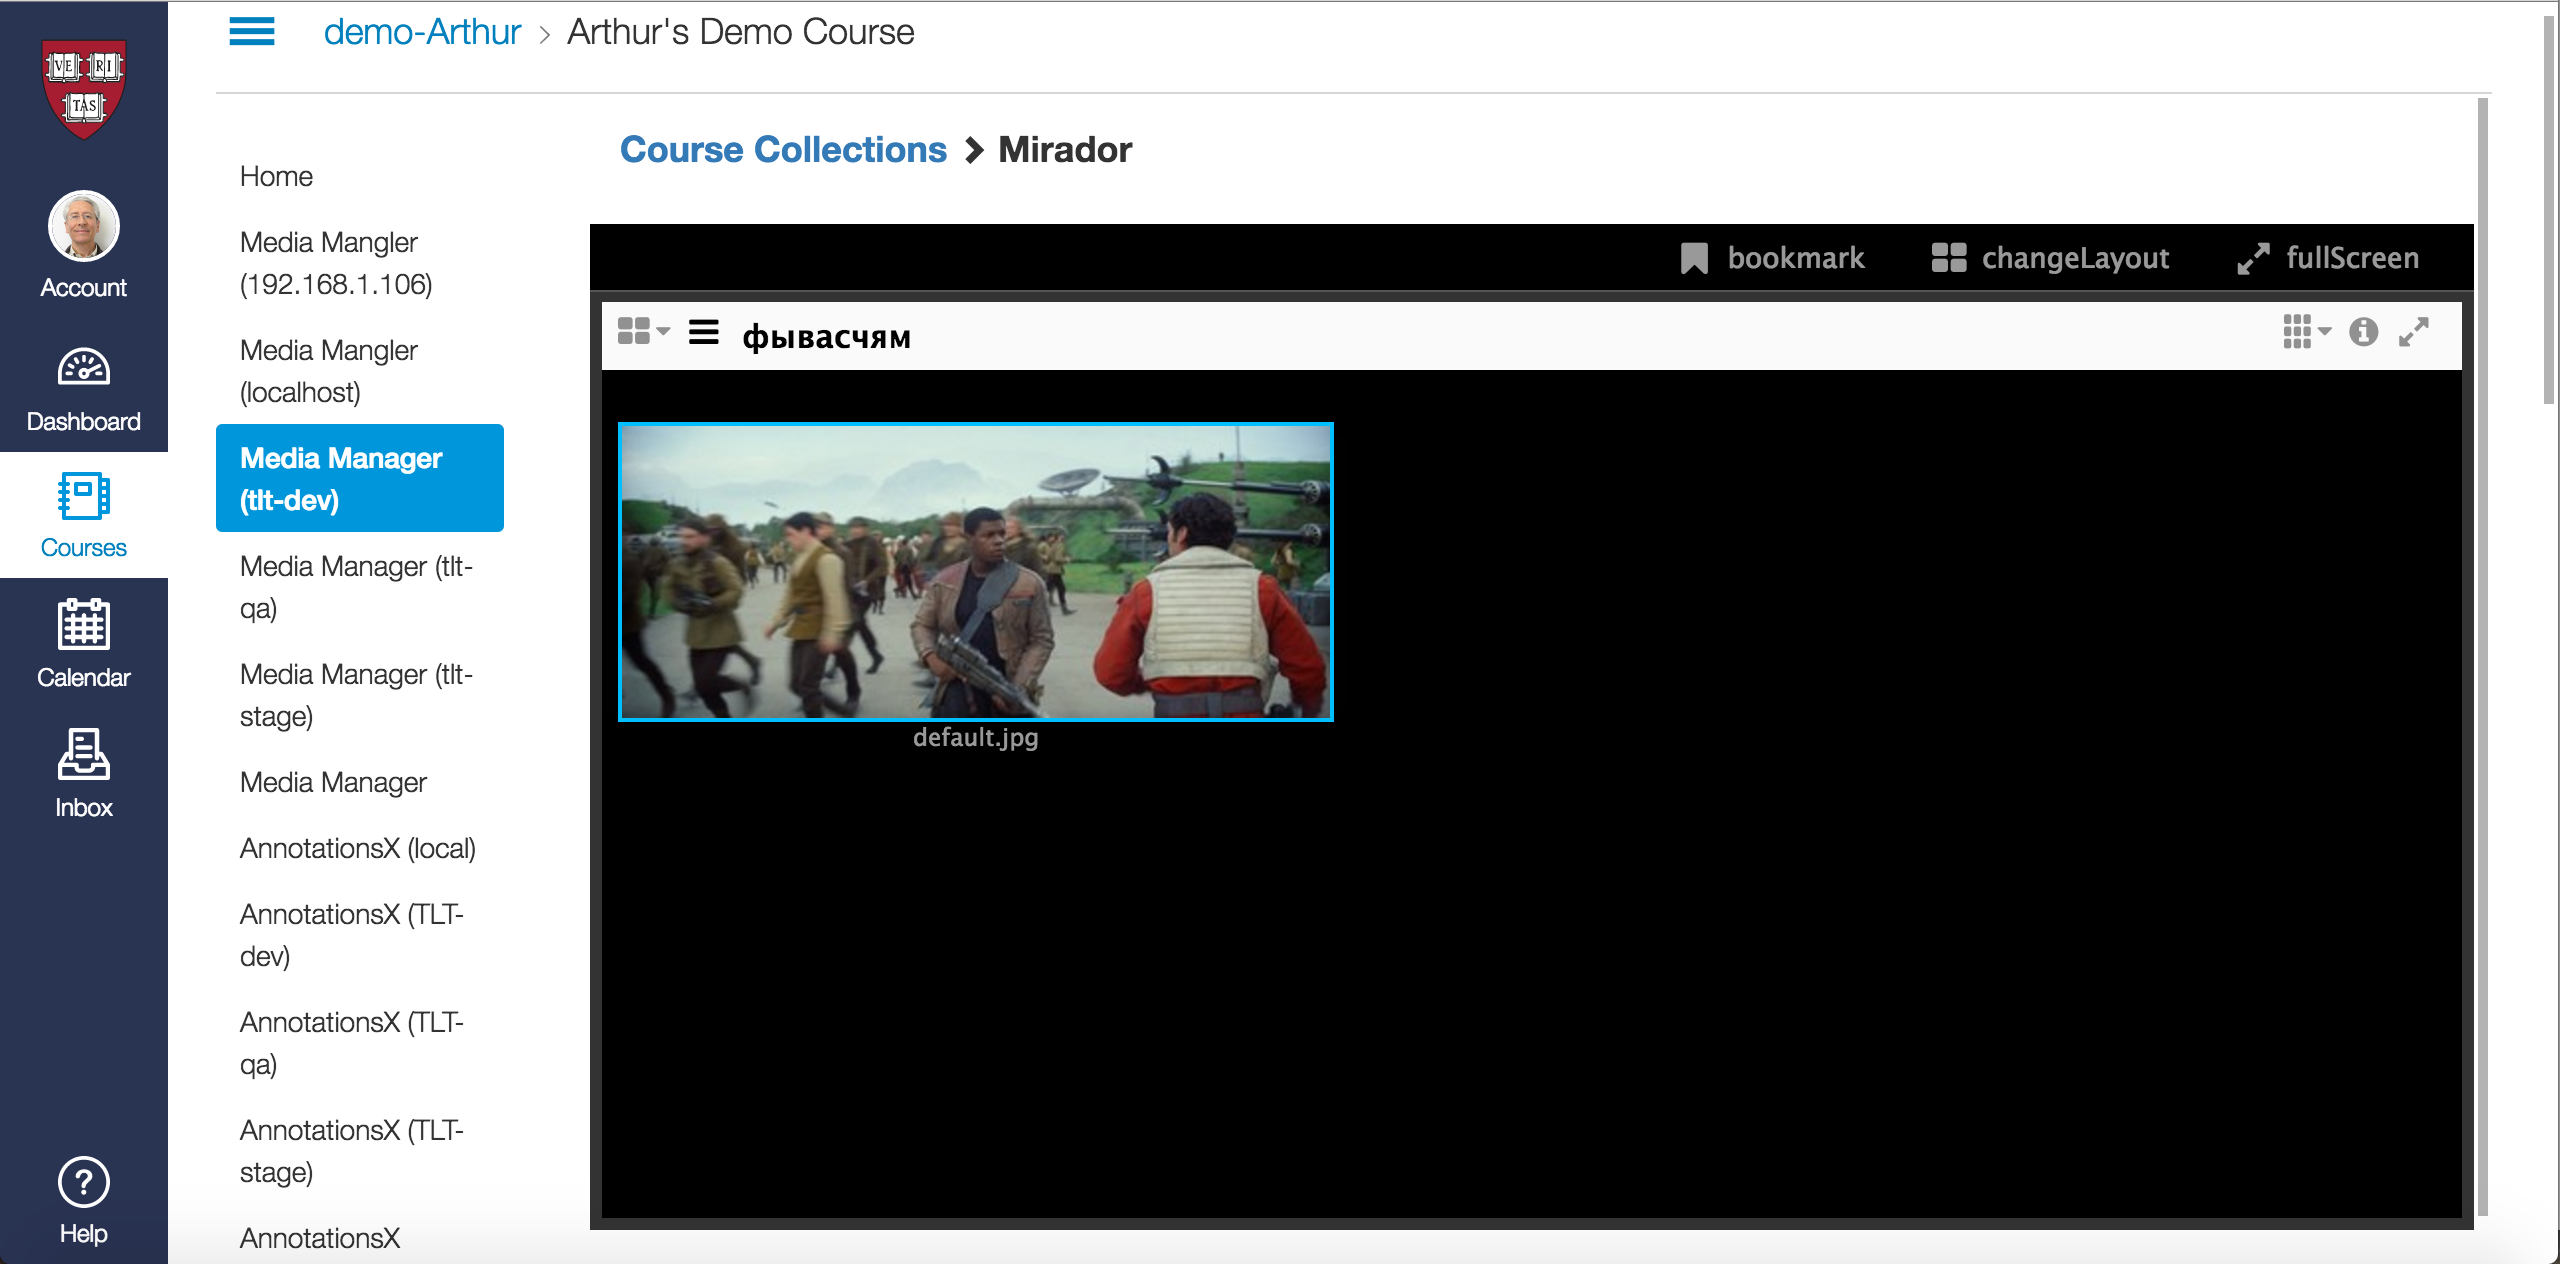
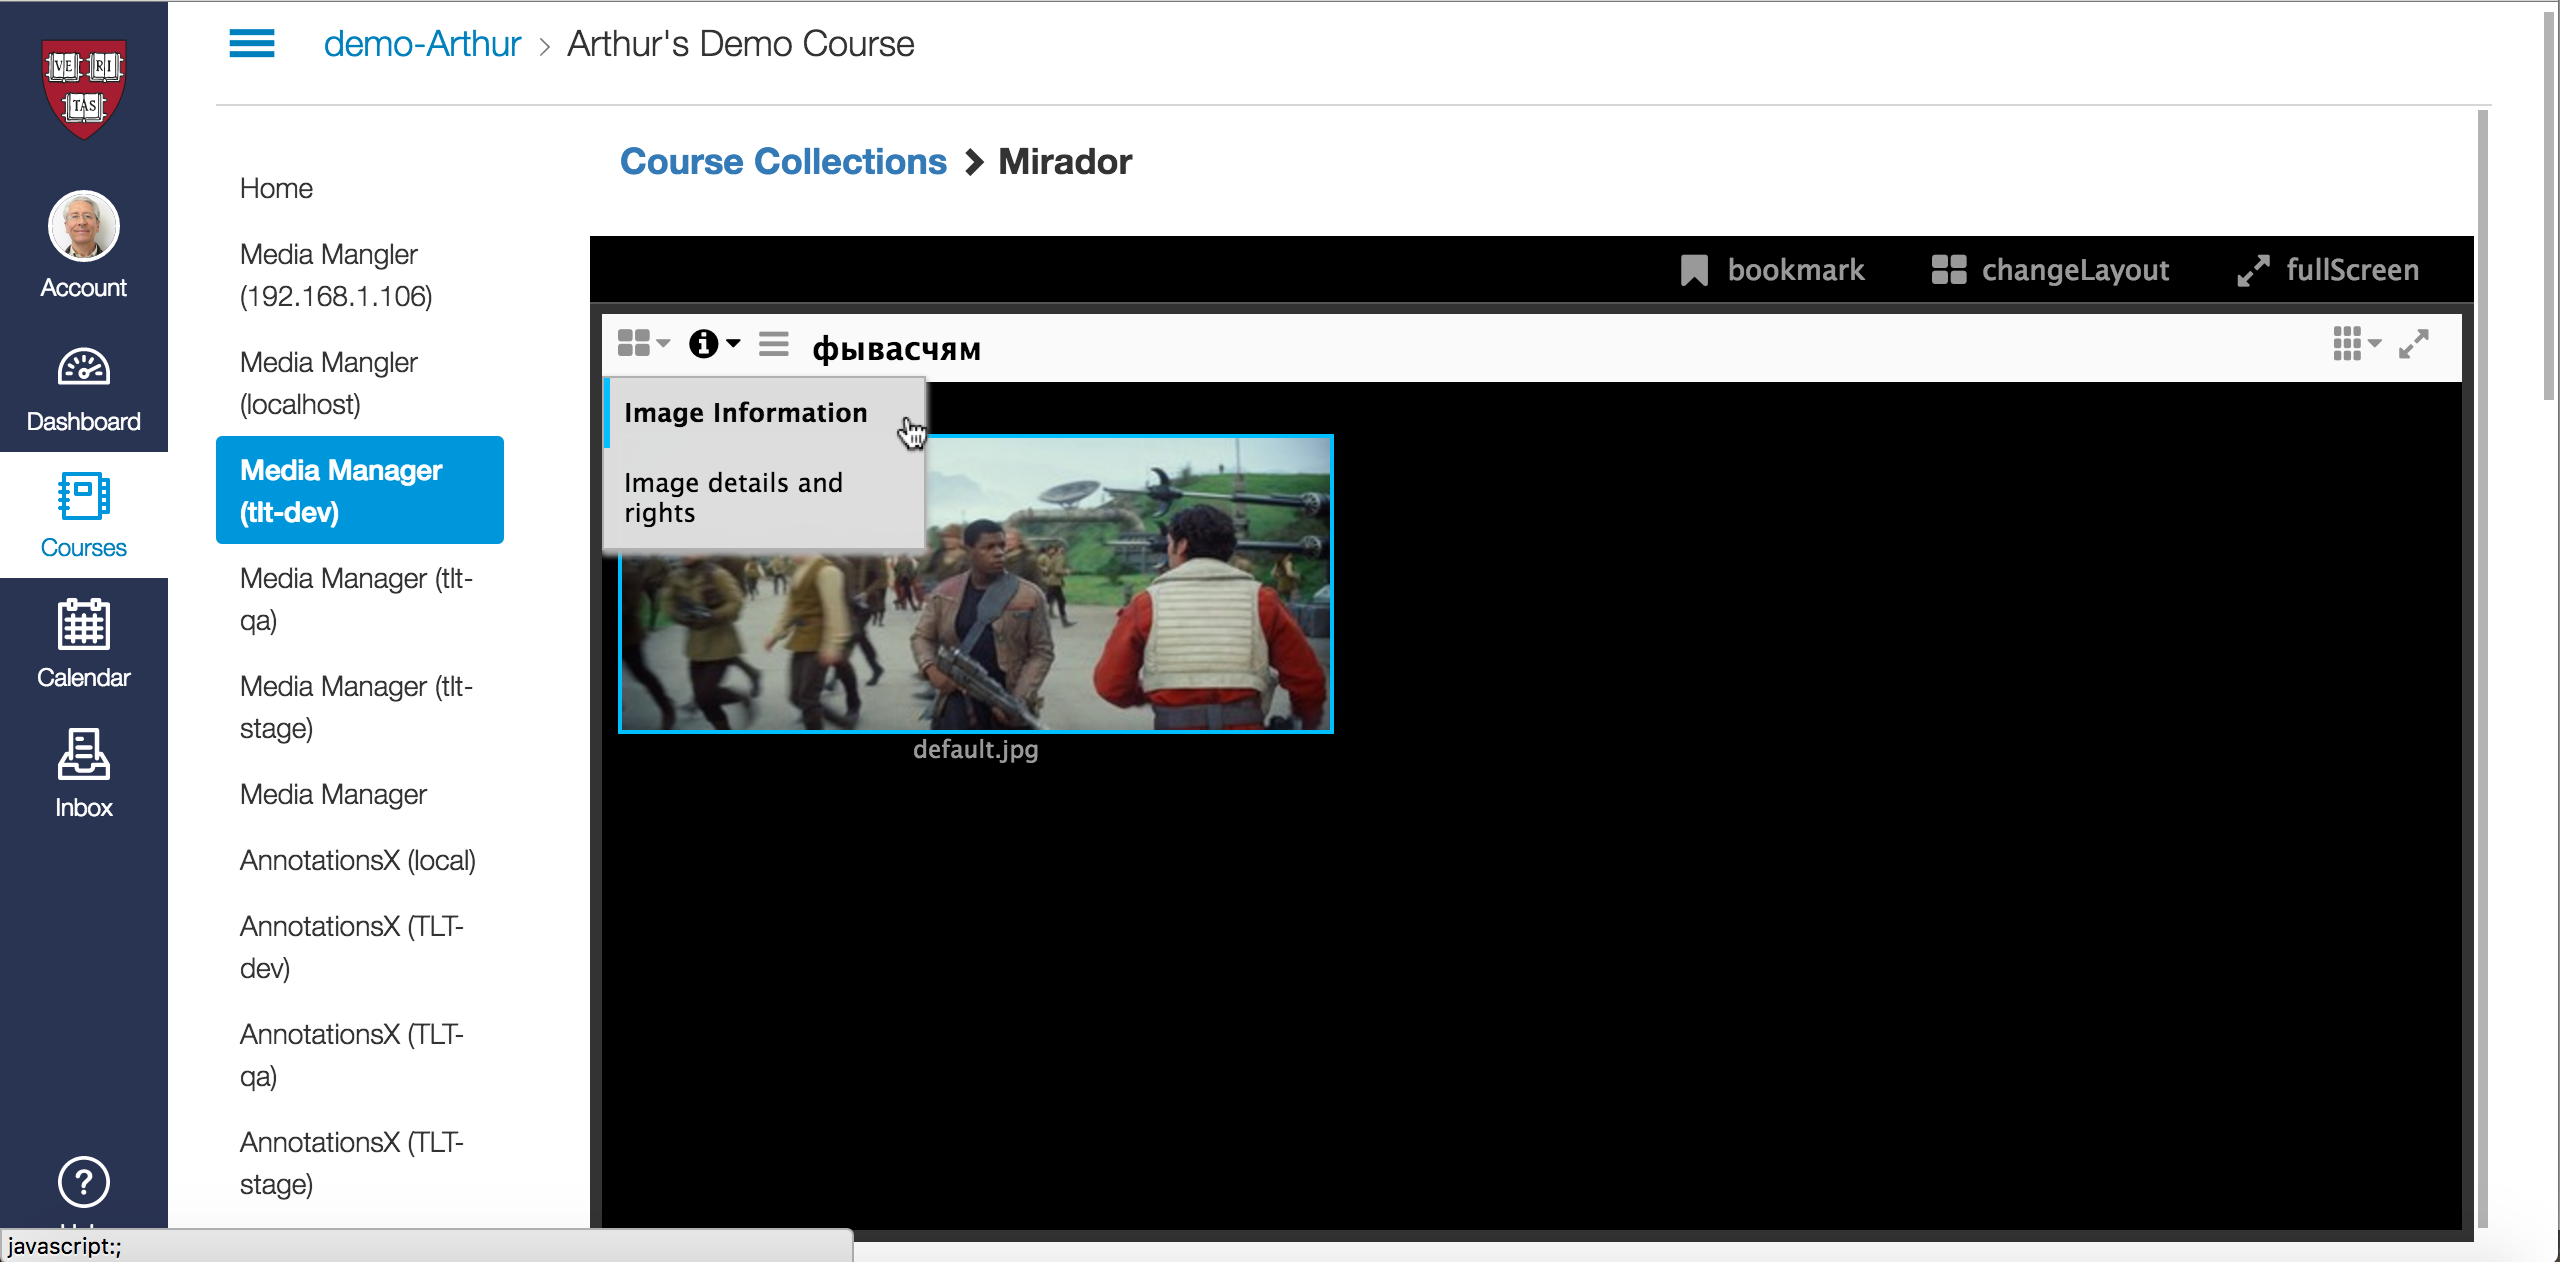
Mirador_Upper_Nav, proposed screen and UI code

diff --git a/Mirador_Upper_Nav/index.html b/Mirador_Upper_Nav/index.html
@@ -58,9 +58,19 @@
 					</i> addSlotBelow</li>
 			</ul>
 		</a>
-		<a href="javascript:;" class="mirador-btn mirador-icon-toc mirador-tooltip selected" aria-label="sidePanelTooltip" data-hasqtip="6" oldtitle="sidePanelTooltip" title="" aria-describedby="qtip-6">
-			<i class="fa fa-bars fa-lg fa-fw">
+
+	<!-- UI comment - Consolidating under one icon both the current image data and image details -->
+		<a href="javascript:;" class="mirador-btn mirador-icon-view-type" role="button" title="viewTypeTooltip" aria-label="viewTypeTooltip">
+			<i class="fa fa-info-circle fa-lg fa-fw">
 			</i>
+			<i class="fa fa-caret-down">
+			</i>
+			<ul class="dropdown image-list" style="display: none;">
+				<li class="new-object-option">
+					Image Information</li>
+				<li class="add-slot-right">
+					Image details and rights</li>
+			</ul>
 		</a>
 		<h3 class="window-manifest-title" aria-label="фывасчям" data-hasqtip="7" oldtitle="фывасчям" title="" aria-describedby="qtip-7">фывасчям</h3>
 	</div>
@@ -80,7 +90,9 @@
 				</ul>
 			</div>
 		</div>
-		<div class="overlay">
+
+<!-- UI commnt - the content of this slider would be shown instead in the same div in which the Image Information is shown -->
+		<!-- <div class="overlay">
 			<div class="sub-title">details:</div>
 			<div class="metadata-listing">
 				<div class="metadata-item">
@@ -101,7 +113,7 @@
 					<div class="metadata-value">unspecified</div>
 				</div>
 			</div>
-		</div>
+		</div> -->
 		<div class="view-container " style="transition: 0s; margin-left: 0px;">
 			<div class="bottomPanel" style="transform: translateY(100%);">
 			</div>
